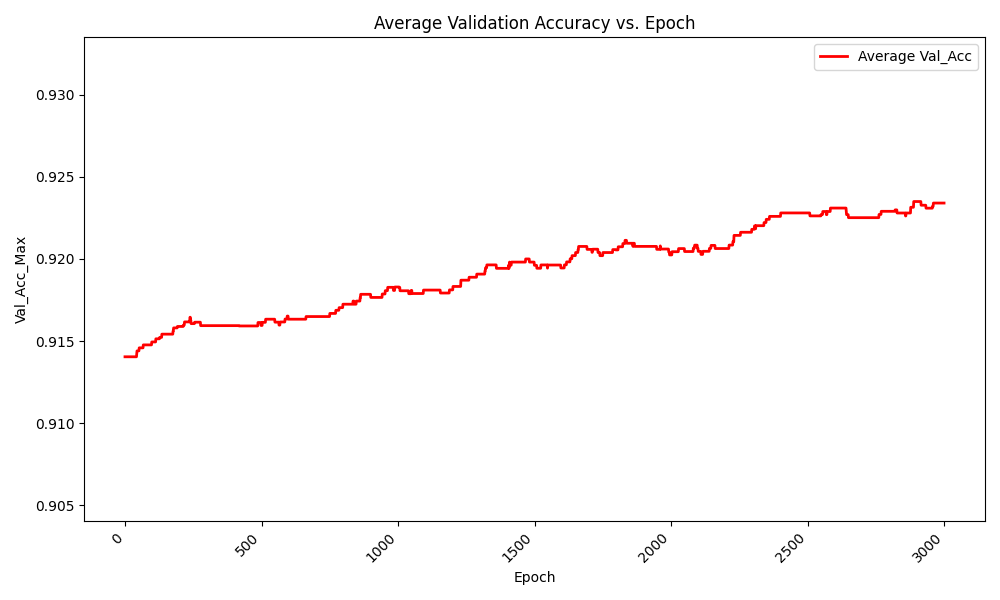
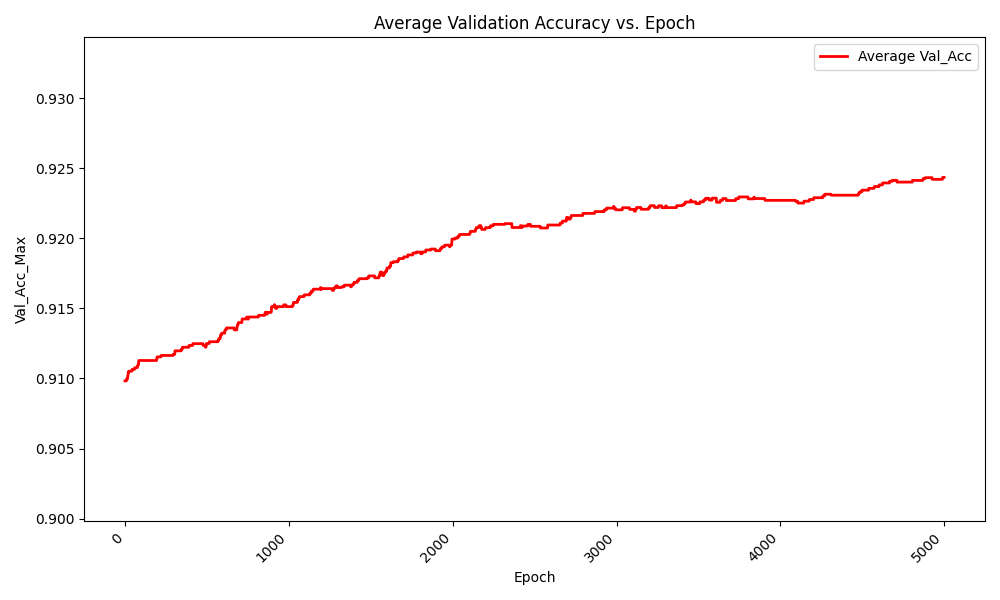
added 1000+ times speedup to simulation...

diff --git a/simulation/src/sandbox.cpp b/simulation/src/sandbox.cpp
@@ -44,9 +44,8 @@ auto load_batch_from_paths(std::vector<std::string> paths) {
 }
 
 int  main() {
-    std::vector<std::string> all_user_ids = {"050170cb", "964e8cfd", "bbd0bbd0", "7846fd85", "b528edb3", "07089da9", "cd671b5f", "5ebc1cda", "7213ed54", "92a9c5e6", "8fe67225", "c1d39ce8", "d962e5ac", "28ed6bc9", "b0ae6326", "b8874962", "f2f0d244", "a1e71565", "3a3ee7ed", "ddedba85", "56eb74ae", "7ea032f3", "c8b904e3", "2bdbe5f7", "b97c9f77", "3cc595de", "3b3d2f59", "69a1a79f", "eb3f7d82", "7e7ca854", "9b8a7439", "bde0f20a", "0d90d8e1", "b5cf6ea8", "cd85758f", "97f4c236", "645ed69d", "679463fc", "95fd5a0f", "067f61e2", "617de221", "20fd451f", "f68160c0", "1ecfb537", "c9b653a0", "0e6e36c9", "6565a81d", "3d794813", "fb7eb481", "d5b963aa", "b29f8b23", "31f01a8d", "9151f184", "1496195a", "9ff2d2f4", "fb727898", "d9aa8c90", "ca4d5368", "ec989d6d", "893705bb", "234d6a48", "4e6902d0", "3c257192", "fbb56351", "e3e0f145", "da040491", "72242187", "b9515bf3", "8eb4a1bf", "f30285c8", "8281a2a8", "f9643d42", "f2e9b610", "b87bdb22", "a05a90c1", "18e910f4", "0ba018fc", "b4aa9fef", "cd7f8c1b", "d070ea86", "d3831f6a", "0d82fd99", "96a48d28", "322d17d3", "122c5aa7", "321aba74", "ace072ba", "a9ca1818", "4c6944d6", "3bfd30e6", "d21fd169", "779de043", "35d1b6ee", "834f03fe", "525eaa62", "f822b9bf", "02ade946", "72e382bd", "332d33b1", "94d370bf", "845f8553", "f736ab63", "b0f5b16d", "85851131", "b66f4f93", "8134f43f", "9aa21fa9", "8e05039f", "a7200079", "686d030b", "a5d1becc", "acfd5b5e", "b49caed3", "0ff728b5", "eb0676ec", "d278d8ef", "324210dd", "b2ae3928", "e6327279", "61e2f74f", "b4ea0d9a", "37dca74f", "38d78313", "30060aba", "e71a9381", "ed032775", "d394ef8e", "fb8c31a9", "f5341341", "9a76f8c3", "179a61b7", "0717b9f6", "28e47b1a", "5c39594f", "ac9dee0e", "c22ebf46", "dae01802", "c1e0e8e3", "195c120a", "742d6431", "f568162b", "439c84f4", "616420be", "c79159aa", "1b4c9b89", "15dd287d", "bcf614a2", "a929f9b9", "ffd2ba2f", "131e738d", "c9b5ff26", "2aca1e72", "bb6d4301", "57152045", "8dc18a75", "953fe1ad", "f5626af6", "978240e1", "4cee0c60", "a6d586b7", "25132942", "c120e80e", "3bb68054", "1e02ffc5", "d1dd03ed", "fc3ba625", "c93d5e22", "9be15e93", "29fb33da", "b5552931", "14c7b073", "51c5601d", "4fd1443e", "3a69f765", "2927c601", "15c563d7", "e53139ad", "9886d8bf", "833d9f56", "1a994c9f", "c39703ec", "81332c92", "c22d3f18", "d264f7b6", "211b928a", "6c968bd9", "5f5eef60", "e41a903b", "1e9e6bdd", "229978fd", "1dc86f91", "5cf1ecce", "b69002d4", "21832144", "de89e2ca", "61abbf52", "f5733968", "08ab231c", "a77fbcfd", "890cc926", "2e75d37a", "3102f006", "2fcb6397", "94de6a6a", "32ad5b65", "ef77b778", "cb72dfb6", "333784b7", "98ea0818", "333d7ddb", "ad63d93c", "73f20b00", "87d5e978", "c7dc7278", "6ace4fe1", "64df20d8", "c634a189", "2f0ce4d9", "89947bd7", "e0315cf6", "0ea9c8ce", "3c4aa5ef", "ca4912b6", "f2e59fea", "cfbedff9", "f19c1390", "b9f46737", "113b3fbc", "e1469561", "fa57ab3b", "3f45a0cf", "7211390b", "0f46028a", "87070229", "4c3cddb8", "f01a0d63", "beb458a4", "3d53244b", "0b7ee1a0", "106a6183", "e11fbc6e", "bab36420", "ef3367d9", "bdee441c", "676f8138", "017c4098", "bbc30633", "6ef407da", "1ed0b13d", "3291330e", "71d0ded4", "b308773d", "e9bc5cc2", "cc6ee39b", "6727b579", "63f7a489", "9e92ef0c", "9b02d503", "3e31dffe", "8769c34c", "c948d727", "70a00e98", "0137b3f4", "f0659908", "8b25410a", "574ec766", "763188c4", "bdd22e4d", "a7acbbeb", "499be02e", "2da58b32", "472b8045", "db24628d", "ff2b842e", "888a0c49", "a16013b7", "5170b77f", "235b444f", "b83c1acf", "0f7266cf", "3589bc72", "171edea9", "a2cc5444", "365908bd", "0d6d7360", "5b09db89", "fbf3dd31", "aff582a1", "06f6c194", "6aa8def4", "25e95412", "5f9cd2eb", "0eb48e10", "8e523821", "ce0cb033", "b69fe0e2", "2b5e346d", "74241b28", "3bc21161", "0132a06d", "692a88e6", "ccca5655", "f798ac78", "e4be0cf6", "e7ea8b76", "42a99aec", "fa52ddf6", "3b195250", "a04817c2", "42f81601", "29229c21", "4a1e736b", "c6ee87a7", "2356b88d", "b76f6088", "51055bda", "23da904f", "471a0925", "3a929277", "30276d03", "d98dd124", "10ace7eb", "a045368c", "c4e00ee9", "eaa83485", "24befdb3", "f035e2ea", "201e28a9", "f8ba7c0e", "773e26f7", "f0522ff4", "bfd26d6b", "39833acb", "099d52ad", "1acc97de", "f575faf3", "3b4f8f24", "6c429c7b", "54aecbd5", "ee1d8d49", "eeaf97c3", "2fee065a", "a1cff772", "51f7a034", "7fb8d703", "6bf5baf3", "c0445658", "54b6d355", "da584bc0", "617aeb6c", "61ab8fbc", "197f4153", "e49428d9", "cce7416f", "578d3efb", "bd76a7fd", "cc4f9250", "5a5721f8", "d0faf7e4", "ceef6d96", "e0c782d5", "e882abb2", "cdee383b", "bb05582b", "bbf38549", "22296dbe", "5e3dde6b", "cb62dbf1"};
-
-    #pragma omp parallel for
+    std::vector<std::string> all_user_ids = {"c50f55b8", "050170cb", "964e8cfd", "bbd0bbd0", "7846fd85", "b528edb3", "07089da9", "cd671b5f", "5ebc1cda", "7213ed54", "92a9c5e6", "8fe67225", "c1d39ce8", "d962e5ac", "28ed6bc9", "b0ae6326", "b8874962", "f2f0d244", "a1e71565", "3a3ee7ed", "ddedba85", "56eb74ae", "7ea032f3", "c8b904e3", "2bdbe5f7", "b97c9f77", "3cc595de", "3b3d2f59", "69a1a79f", "eb3f7d82", "7e7ca854", "9b8a7439", "bde0f20a", "0d90d8e1", "b5cf6ea8", "cd85758f", "97f4c236", "645ed69d", "679463fc", "95fd5a0f", "067f61e2", "617de221", "20fd451f", "f68160c0", "1ecfb537", "c9b653a0", "0e6e36c9", "6565a81d", "3d794813", "fb7eb481", "d5b963aa", "b29f8b23", "31f01a8d", "9151f184", "1496195a", "9ff2d2f4", "fb727898", "d9aa8c90", "ca4d5368", "ec989d6d", "893705bb", "234d6a48", "4e6902d0", "3c257192", "fbb56351", "e3e0f145", "da040491", "72242187", "b9515bf3", "8eb4a1bf", "f30285c8", "8281a2a8", "f9643d42", "f2e9b610", "b87bdb22", "a05a90c1", "18e910f4", "0ba018fc", "b4aa9fef", "cd7f8c1b", "d070ea86", "d3831f6a", "0d82fd99", "96a48d28", "322d17d3", "122c5aa7", "321aba74", "ace072ba", "a9ca1818", "4c6944d6", "3bfd30e6", "d21fd169", "779de043", "35d1b6ee", "834f03fe", "525eaa62", "f822b9bf", "02ade946", "72e382bd", "332d33b1", "94d370bf", "845f8553", "f736ab63", "b0f5b16d", "85851131", "b66f4f93", "8134f43f", "9aa21fa9", "8e05039f", "a7200079", "686d030b", "a5d1becc", "acfd5b5e", "b49caed3", "0ff728b5", "eb0676ec", "d278d8ef", "324210dd", "b2ae3928", "e6327279", "61e2f74f", "b4ea0d9a", "37dca74f", "38d78313", "30060aba", "e71a9381", "ed032775", "d394ef8e", "fb8c31a9", "f5341341", "9a76f8c3", "179a61b7", "0717b9f6", "28e47b1a", "5c39594f", "ac9dee0e", "c22ebf46", "dae01802", "c1e0e8e3", "195c120a", "742d6431", "f568162b", "439c84f4", "616420be", "c79159aa", "1b4c9b89", "15dd287d", "bcf614a2", "a929f9b9", "ffd2ba2f", "131e738d", "c9b5ff26", "2aca1e72", "bb6d4301", "57152045", "8dc18a75", "953fe1ad", "f5626af6", "978240e1", "4cee0c60", "a6d586b7", "25132942", "c120e80e", "3bb68054", "1e02ffc5", "d1dd03ed", "fc3ba625", "c93d5e22", "9be15e93", "29fb33da", "b5552931", "14c7b073", "51c5601d", "4fd1443e", "3a69f765", "2927c601", "15c563d7", "e53139ad", "9886d8bf", "833d9f56", "1a994c9f", "c39703ec", "81332c92", "c22d3f18", "d264f7b6", "211b928a", "6c968bd9", "5f5eef60", "e41a903b", "1e9e6bdd", "229978fd", "1dc86f91", "5cf1ecce", "b69002d4", "21832144", "de89e2ca", "61abbf52", "f5733968", "08ab231c", "a77fbcfd", "890cc926", "2e75d37a", "3102f006", "2fcb6397", "94de6a6a", "32ad5b65", "ef77b778", "cb72dfb6", "333784b7", "98ea0818", "333d7ddb", "ad63d93c", "73f20b00", "87d5e978", "c7dc7278", "6ace4fe1", "64df20d8", "c634a189", "2f0ce4d9", "89947bd7", "e0315cf6", "0ea9c8ce", "3c4aa5ef", "ca4912b6", "f2e59fea", "cfbedff9", "f19c1390", "b9f46737", "113b3fbc", "e1469561", "fa57ab3b", "3f45a0cf", "7211390b", "0f46028a", "87070229", "4c3cddb8", "f01a0d63", "beb458a4", "3d53244b", "0b7ee1a0", "106a6183", "e11fbc6e", "bab36420", "ef3367d9", "bdee441c", "676f8138", "017c4098", "bbc30633", "6ef407da", "1ed0b13d", "3291330e", "71d0ded4", "b308773d", "e9bc5cc2", "cc6ee39b", "6727b579", "63f7a489", "9e92ef0c", "9b02d503", "3e31dffe", "8769c34c", "c948d727", "70a00e98", "0137b3f4", "f0659908", "8b25410a", "574ec766", "763188c4", "bdd22e4d", "a7acbbeb", "499be02e", "2da58b32", "472b8045", "db24628d", "ff2b842e", "888a0c49", "a16013b7", "5170b77f", "235b444f", "b83c1acf", "0f7266cf", "3589bc72", "171edea9", "a2cc5444", "365908bd", "0d6d7360", "5b09db89", "fbf3dd31", "aff582a1", "06f6c194", "6aa8def4", "25e95412", "5f9cd2eb", "0eb48e10", "8e523821", "ce0cb033", "b69fe0e2", "2b5e346d", "74241b28", "3bc21161", "0132a06d", "692a88e6", "ccca5655", "f798ac78", "e4be0cf6", "e7ea8b76", "42a99aec", "fa52ddf6", "3b195250", "a04817c2", "42f81601", "29229c21", "4a1e736b", "c6ee87a7", "2356b88d", "b76f6088", "51055bda", "23da904f", "471a0925", "3a929277", "30276d03", "d98dd124", "10ace7eb", "a045368c", "c4e00ee9", "eaa83485", "24befdb3", "f035e2ea", "201e28a9", "f8ba7c0e", "773e26f7", "f0522ff4", "bfd26d6b", "39833acb", "099d52ad", "1acc97de", "f575faf3", "3b4f8f24", "6c429c7b", "54aecbd5", "ee1d8d49", "eeaf97c3", "2fee065a", "a1cff772", "51f7a034", "7fb8d703", "6bf5baf3", "c0445658", "54b6d355", "da584bc0", "617aeb6c", "61ab8fbc", "197f4153", "e49428d9", "cce7416f", "578d3efb", "bd76a7fd", "cc4f9250", "5a5721f8", "d0faf7e4", "ceef6d96", "e0c782d5", "e882abb2", "cdee383b", "bb05582b", "bbf38549", "22296dbe", "5e3dde6b", "cb62dbf1"};
+    #pragma omp parallel for num_threads(18) 
     for (auto uid : all_user_ids) {
         for (uint32_t run = 0; run < TOTAL_RUNS; run++) {
             auto validation_errors_file_name = "./user_perf_logs/"+uid+"_run_"+ std::to_string(run) +".csv";
@@ -82,11 +81,12 @@ int  main() {
             std::vector<float> all_validation_accuracies_threshold_85;
             std::vector<float> all_validation_accuracies_threshold_90;
             std::vector<float> all_validation_accuracies_threshold_95;
+            std::vector<std::vector<float>> all_avg_train_activations;
+            std::vector<std::vector<float>> all_avg_validation_activations;
             
             while (i < EPOCHS) {
                 
                 if (dataloader.get_training_pool_empty()) {
-                    ii++;
                     auto mybatch = dataloader.get_batch();
                     std::vector<float> labels_onehot;
                     // Convert int labels to vector of dim [batchsize classes]
@@ -96,7 +96,13 @@ int  main() {
 
                         labels_onehot.insert(labels_onehot.end(), temp.begin(), temp.end());
                     }
-                    model_forward(model, std::get<0>(mybatch));
+                    if (i == 0) {
+                        model_forward(model, std::get<0>(mybatch));
+                        all_avg_train_activations.push_back(model[27].layer_outputs);
+                    } else {
+                        model[28].forward(std::get<0>(mybatch).data());
+                        model[29].forward(model[28].layer_outputs.data());
+                    }
                     softmax.forward(model.back().layer_outputs.data());
                     crossentropy.forward(softmax.layer_outputs.data(), labels_onehot.data());
                     softmax.backward(labels_onehot.data());
@@ -134,12 +140,13 @@ int  main() {
   //                  softmax_fw_analyzer.print_stats_raw();
   //                  softmax_bw_analyzer.print_stats_raw();
   //  #else
-  //                  //dataloader.print_progress_bar(i+1,error);
+  //                  dataloader.print_progress_bar(i+1,error);
 //
   //  #endif
 
                 } else {
                     momentum = 0.0;
+
                     auto myvalset = dataloader.get_validation_set();
                     float temp_err = 0.0f;
                     float total = 0;
@@ -171,8 +178,13 @@ int  main() {
                             labels_onehot.insert(labels_onehot.end(), temp.begin(), temp.end());
                             actual_inputs.insert(actual_inputs.end(), vinput.begin(), vinput.end());
                         }
-
-                        model_forward(model, actual_inputs);
+                        if (i == 0) {
+                            model_forward(model, actual_inputs);
+                            all_avg_validation_activations.push_back(model[27].layer_outputs);
+                        } else {
+                            model[28].forward(actual_inputs.data());
+                            model[29].forward(model[28].layer_outputs.data());
+                        }
                         softmax.forward(model.back().layer_outputs.data());
                         crossentropy.forward(softmax.layer_outputs.data(), labels_onehot.data());
                         
@@ -254,6 +266,11 @@ int  main() {
                     all_validation_accuracies_threshold_95.push_back(correct_validation_accuracies_threshold_95/total);
                     dataloader.reset_training_pool();
                     //std::cout << std::endl; // New line between epochs
+                    if (i == 0) {
+                        dataloader.set_train_set(all_avg_train_activations);
+                        dataloader.set_validation_set(all_avg_validation_activations);
+                    }
+                    
                     i++;
                 }
             }

diff --git a/simulation/anal_ol_perf.py b/simulation/anal_ol_perf.py
@@ -2,9 +2,9 @@ import pandas as pd
 import matplotlib.pyplot as plt
 import glob
 import numpy as np
-
+MINIMUM_VAL_SAMPS = 1
 # Get a list of all CSV files in the directory
-csv_files = glob.glob("./user_perf_logs_temp_res/*.csv")
+csv_files = glob.glob("./user_perf_logs/*.csv")
 
 # Check if any files were found
 if not csv_files:
@@ -21,11 +21,12 @@ all_data = {}
 for file in csv_files:
     df = pd.read_csv(file)
     
-    # Store data for averaging
-    all_data[file] = df[["Epoch", "Val_Acc_Max"]]
-    
-    # Plot individual runs
-    plt.plot(df["Epoch"], df["Val_Acc_Max"], alpha=0.5)  # Use filename as label
+    if df["Sample_Count"][0] >= MINIMUM_VAL_SAMPS:
+        # Store data for averaging
+        all_data[file] = df[["Epoch", "Val_Acc_Max"]]
+        
+        # Plot individual runs
+        plt.plot(df["Epoch"], df["Val_Acc_Max"], alpha=0.5)  # Use filename as label
 
 # Set labels and title for individual runs
 plt.xlabel("Epoch")
@@ -106,12 +107,12 @@ all_data = {}
 # Iterate over all files and plot their data
 for file in csv_files:
     df = pd.read_csv(file)
-    
-    # Store data for averaging
-    all_data[file] = df[["Epoch", "Val_Loss"]]
-    
-    # Plot individual runs
-    plt.plot(df["Epoch"], df["Val_Loss"], alpha=0.5)  # Use filename as label
+    if df["Sample_Count"][0] >= MINIMUM_VAL_SAMPS:
+        # Store data for averaging
+        all_data[file] = df[["Epoch", "Val_Loss"]]
+        
+        # Plot individual runs
+        plt.plot(df["Epoch"], df["Val_Loss"], alpha=0.5)  # Use filename as label
 
 # Set labels and title for individual runs
 plt.xlabel("Epoch")

diff --git a/simulation/lib/dataloader.cpp b/simulation/lib/dataloader.cpp
@@ -176,3 +176,9 @@ std::vector<float> dataloader::shuffle_vector(std::vector<float> vector) {
     std::random_shuffle(vector.begin(), vector.end());
     return vector;
 }
+void dataloader::set_train_set(std::vector<std::vector<float>> cached_list) {
+    this->dataloader_inputs_train = cached_list;
+}
+void dataloader::set_validation_set(std::vector<std::vector<float>> cached_list) {
+    this->dataloader_inputs_validation = cached_list;
+}

diff --git a/simulation/include/dataloader.hpp b/simulation/include/dataloader.hpp
@@ -41,7 +41,8 @@ public:
     uint16_t get_validation_size();
     void reset_training_pool();
     void print_progress_bar(uint32_t epoch, float error = 0.1);
-
+    void set_train_set(std::vector<std::vector<float>>);
+    void set_validation_set(std::vector<std::vector<float>>);
 };
 
 

diff --git a/simulation/include/defs.hpp b/simulation/include/defs.hpp
@@ -10,8 +10,8 @@
 
 
 #define NUMBER_OF_CLASSES   12
-#define EPOCHS              3000
-#define TOTAL_RUNS          3
+#define EPOCHS              10000
+#define TOTAL_RUNS          10
 #define TRAIN_VAL_SPLIT     0.7
 #define BATCH_SIZE          1
 #define LAYER_SELECT        28
